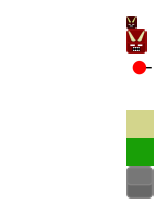
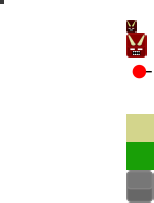
Movement animation fix, projectile graphic

diff --git a/LD33-core/src/com/workforfood/devkit/RAssets.java b/LD33-core/src/com/workforfood/devkit/RAssets.java
@@ -21,6 +21,7 @@ public abstract class RAssets extends BaseAssets {
 	public final TextureRegionExt largefontRegion;
 	public final TextureRegionExt mainCharacterRegion;
 	public final TextureRegionExt minionRegion;
+	public final TextureRegionExt projectileRegion;
 	public final TextureRegionExt sandTileRegion;
 	public final TextureRegionExt tileRegion;
 	public final TextureRegionExt towerRegion;
@@ -76,6 +77,7 @@ public abstract class RAssets extends BaseAssets {
 		largefontRegion = GameAtlas.find("largefont");
 		mainCharacterRegion = GameAtlas.find("mainCharacter");
 		minionRegion = GameAtlas.find("minion");
+		projectileRegion = GameAtlas.find("projectile");
 		sandTileRegion = GameAtlas.find("sandTile");
 		tileRegion = GameAtlas.find("tile");
 		towerRegion = GameAtlas.find("tower");

diff --git a/LD33-core/src/com/ld33/game/pawn/PawnManager.java b/LD33-core/src/com/ld33/game/pawn/PawnManager.java
@@ -66,12 +66,16 @@ public final class PawnManager {
 		else if(player.getX() < 0f) {
 			player.setX(0f);
 		}
+
+		// Special handling for y because of the animation
+		final float playerY = player.getPlaneY();
+		final float playerTop = playerY + player.getHeight();
 		
-		if(player.getTop() > boundsHeight) {
-			player.setY(boundsHeight - player.getHeight());
+		if(playerTop > boundsHeight) {
+			player.setY(boundsHeight - player.getHeight() + player.getJumpDisplacement());
 		}
-		else if(player.getY() < 0f) {
-			player.setY(0f);
+		else if(playerY < 0f) {
+			player.setY(player.getJumpDisplacement());
 		}
 	}
 	

diff --git a/LD33-core/src/com/ld33/game/pawn/Player.java b/LD33-core/src/com/ld33/game/pawn/Player.java
@@ -32,6 +32,14 @@ public final class Player extends Pawn {
 		setRegion(app.getAssets().mainCharacterRegion);
 	}
 	
+	public float getPlaneY() {
+		return getY() - (getHeight() * Config.PLAYER_ANIM_JUMP_HEIGHT) * modY;
+	}
+	
+	public float getJumpDisplacement() {
+		return getHeight() * Config.PLAYER_ANIM_JUMP_HEIGHT * modY;
+	}
+	
 	public void startMoveLeft() {
 		setMovementState(-1, verticalMovementState);
 	}
